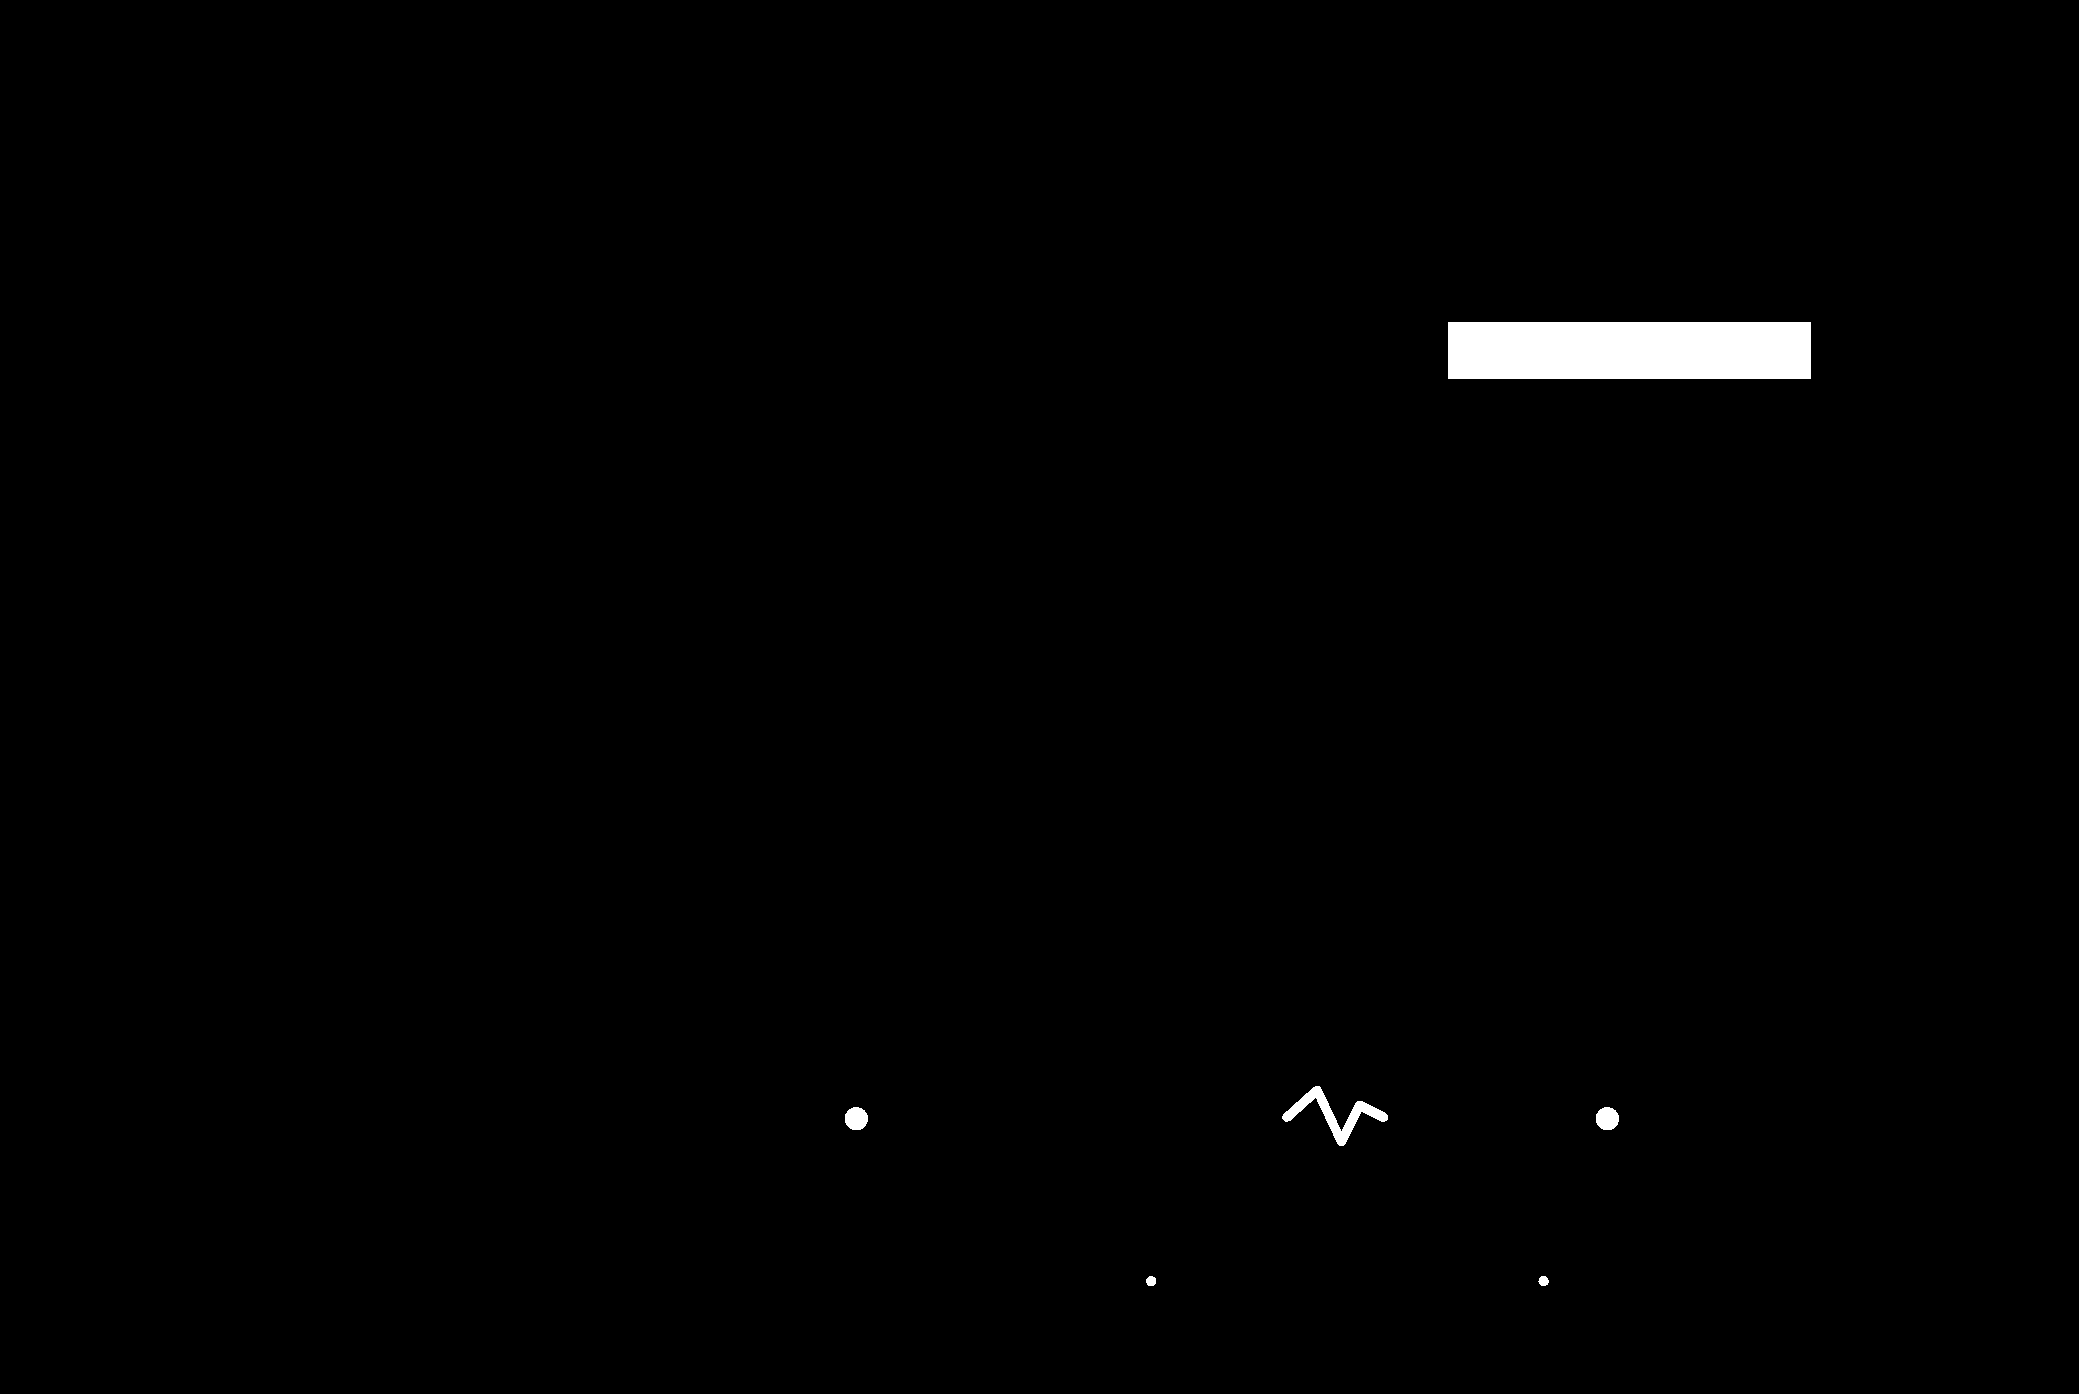
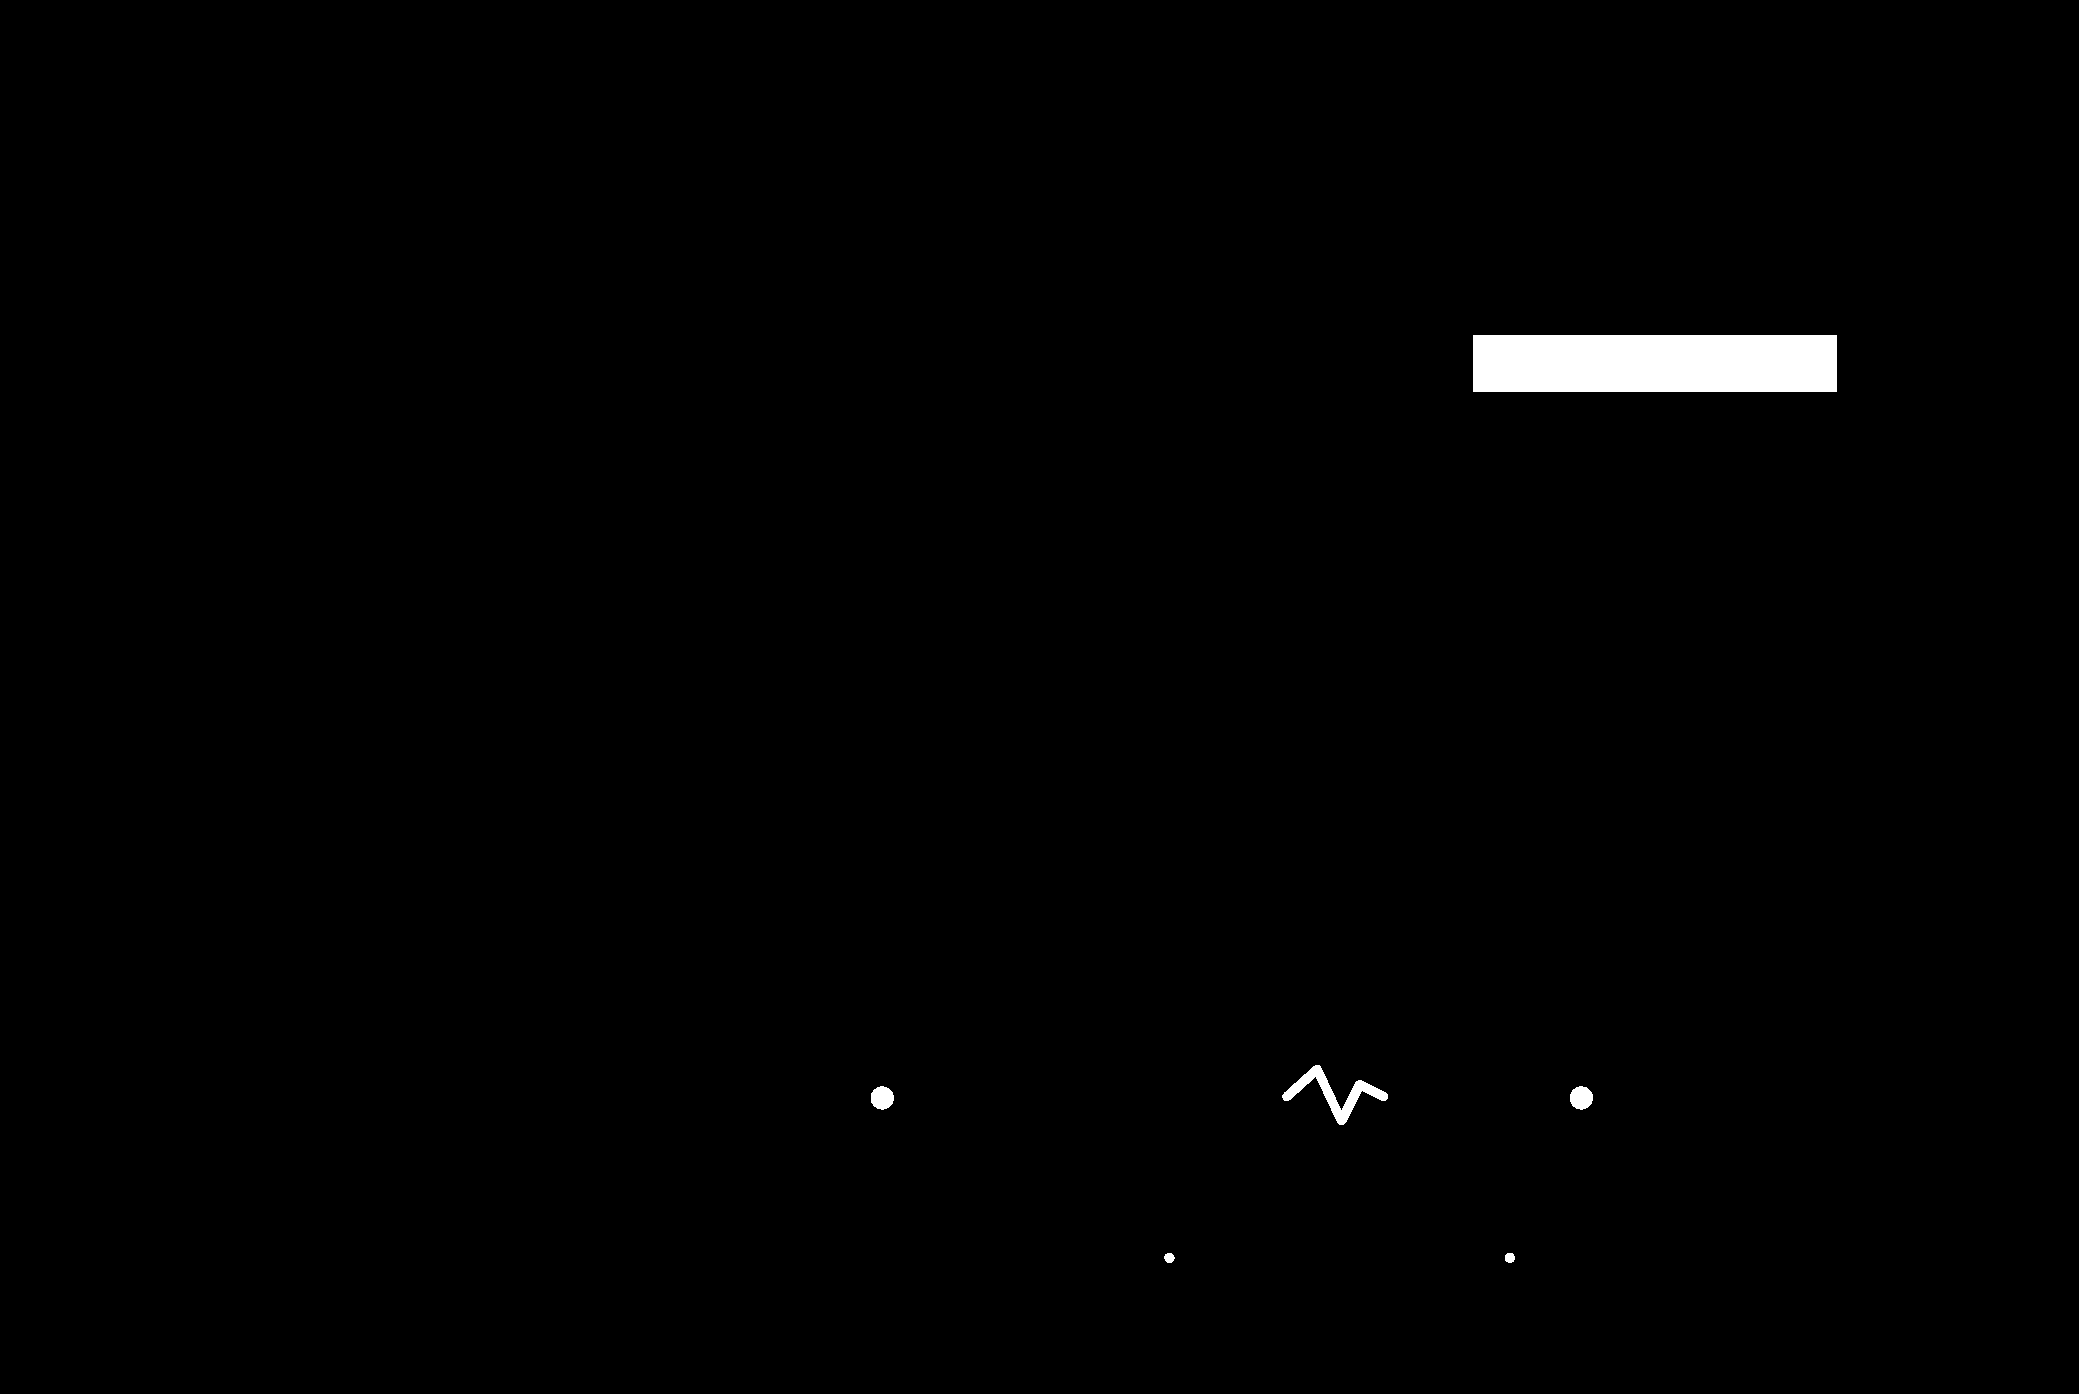
Update card render pipeline and session notes

diff --git a/journal.md b/journal.md
@@ -105,3 +105,22 @@ Key changes:
 
 - Added previous ship entry to journal.md
 - Added .vscode/ to .gitignore to keep editor config out of repo
+
+## 2026-03-07 | SHIP | b8e0ea1...ffaa53f
+
+Shipped: Pharadoxa case study card in portfolio section and standalone breakdown page, plus portfolio phone mockup refinements
+Commits: 2 since last ship
+Key changes:
+
+- Pharadoxa case study card with stats grid and link to /case-studies/pharadoxa/ breakdown page
+- Desktop and mobile slideshows now sync within each portfolio card (shared timer, dot clicks control both)
+- Phone mockup proportions tightened (smaller bezel, flex-stretch to match desktop height)
+- Business card updated to v16 design with regenerated 600dpi print assets
+
+## 2026-03-09 09:20 | SESSION
+
+**Context:** Spot gloss mask refinement for back of business card - wanted heartbeat line to connect through pulse dots
+**Outcome:** Attempted 7+ iterations of connector bars (CSS divs bridging SVG to dots). Threshold step made matching widths intractable - always slightly too thick or too thin. Reverted to original spike-only heartbeat mask. Cards ordered on Moo with existing design.
+**Signal:** Patient through iterations, decisive on revert. "It's fine if we just have the pulse and the dots highlighted." Clean call to stop.
+**Friction:** CSS div height vs SVG stroke-width in a thresholded B/W context. Anti-aliasing differences between the two rendering methods meant no ratio produced a seamless join after threshold(128).
+**Carries forward:** Cards ordered. Design source is now v17 (business-card-v17.html). Render pipeline pointed at v17.

diff --git a/lessons.md b/lessons.md
@@ -44,3 +44,8 @@
 
 **Correction:** The QR "g" was shifted DOWN (dy="+0.05em") when it needed to go UP to optically center the descender. Had to reverse direction to dy="-0.12em".
 **Rule:** Lowercase letters with descenders (g, j, p, q, y) need negative dy to optically center in a container. The descender pulls the visual center down - compensate upward, not downward.
+
+### 2026-03-09 | approach
+
+**Correction:** Spent 7+ iterations trying to connect gloss mask heartbeat line to pulse dots with CSS div connector bars. Threshold step (grayscale + threshold(128)) makes matching SVG stroke width to div height nearly impossible - anti-aliasing differences create visible seams at every ratio.
+**Rule:** Don't try to bridge separate rendering methods (CSS divs vs SVG strokes) in thresholded B/W masks. If elements need to connect seamlessly, render them as a single SVG path. If that's not feasible, accept them as separate gloss elements. Know when to revert - 3 failed approaches means the technique is wrong.